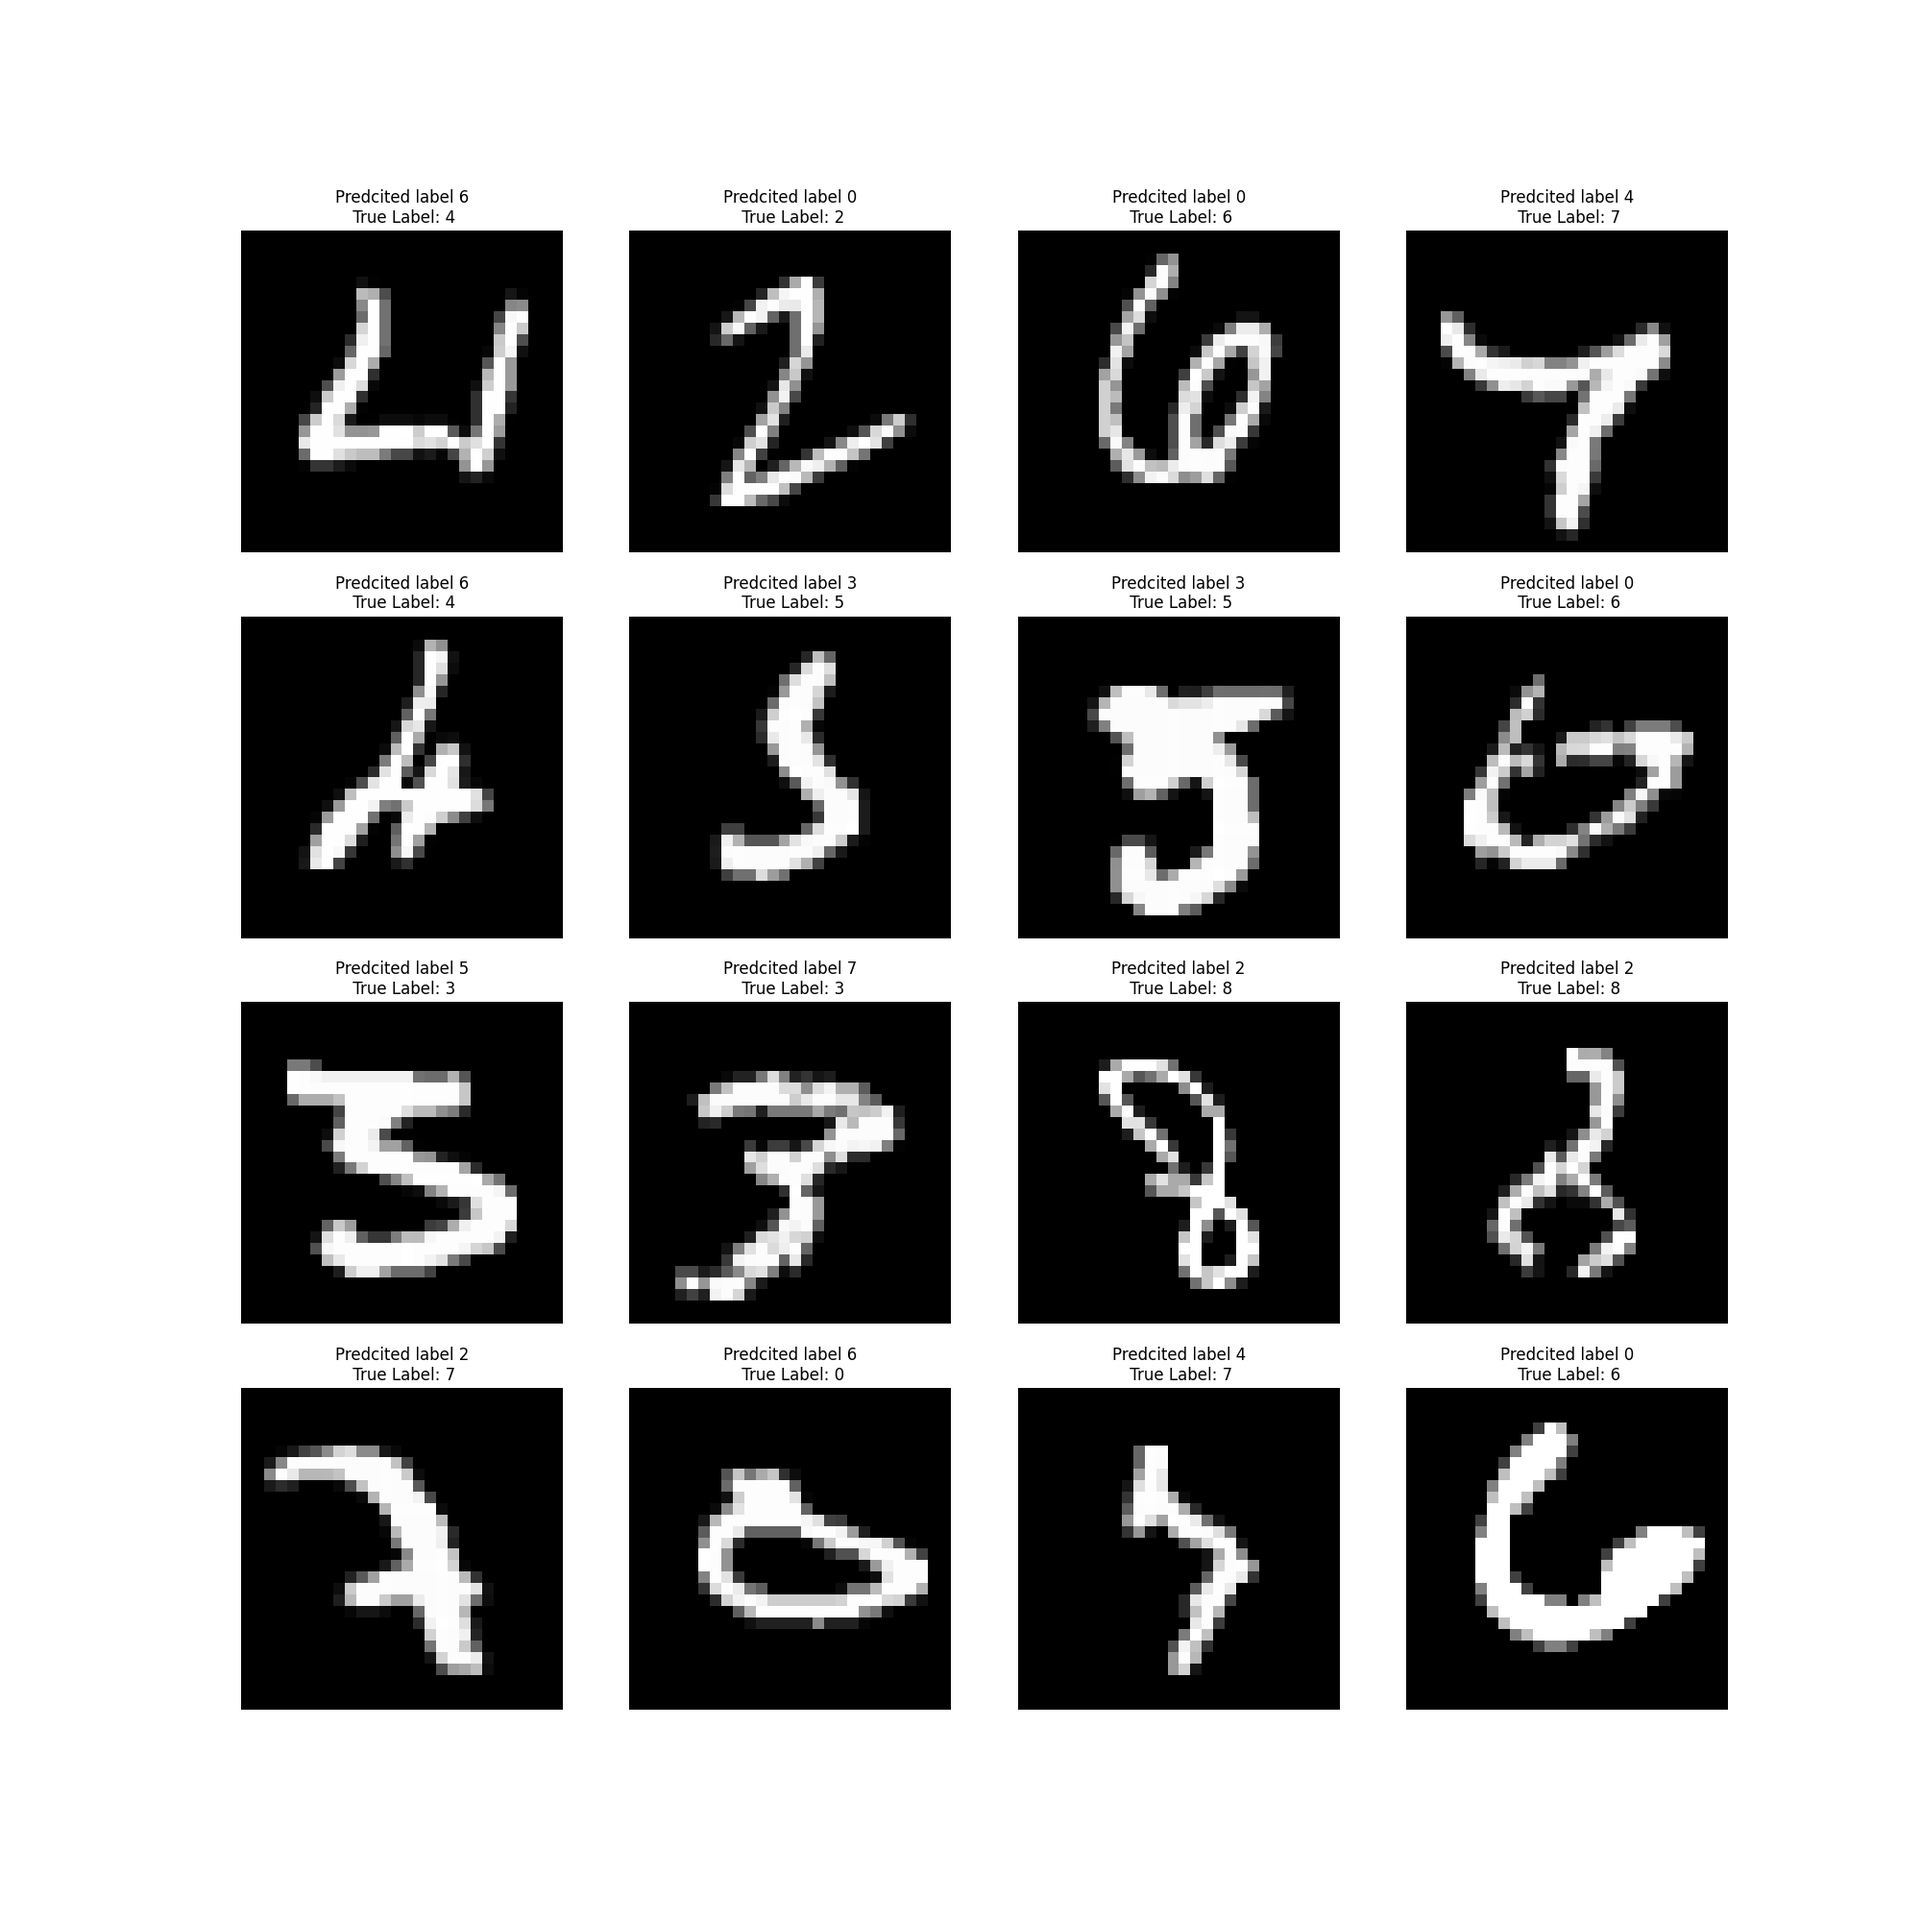
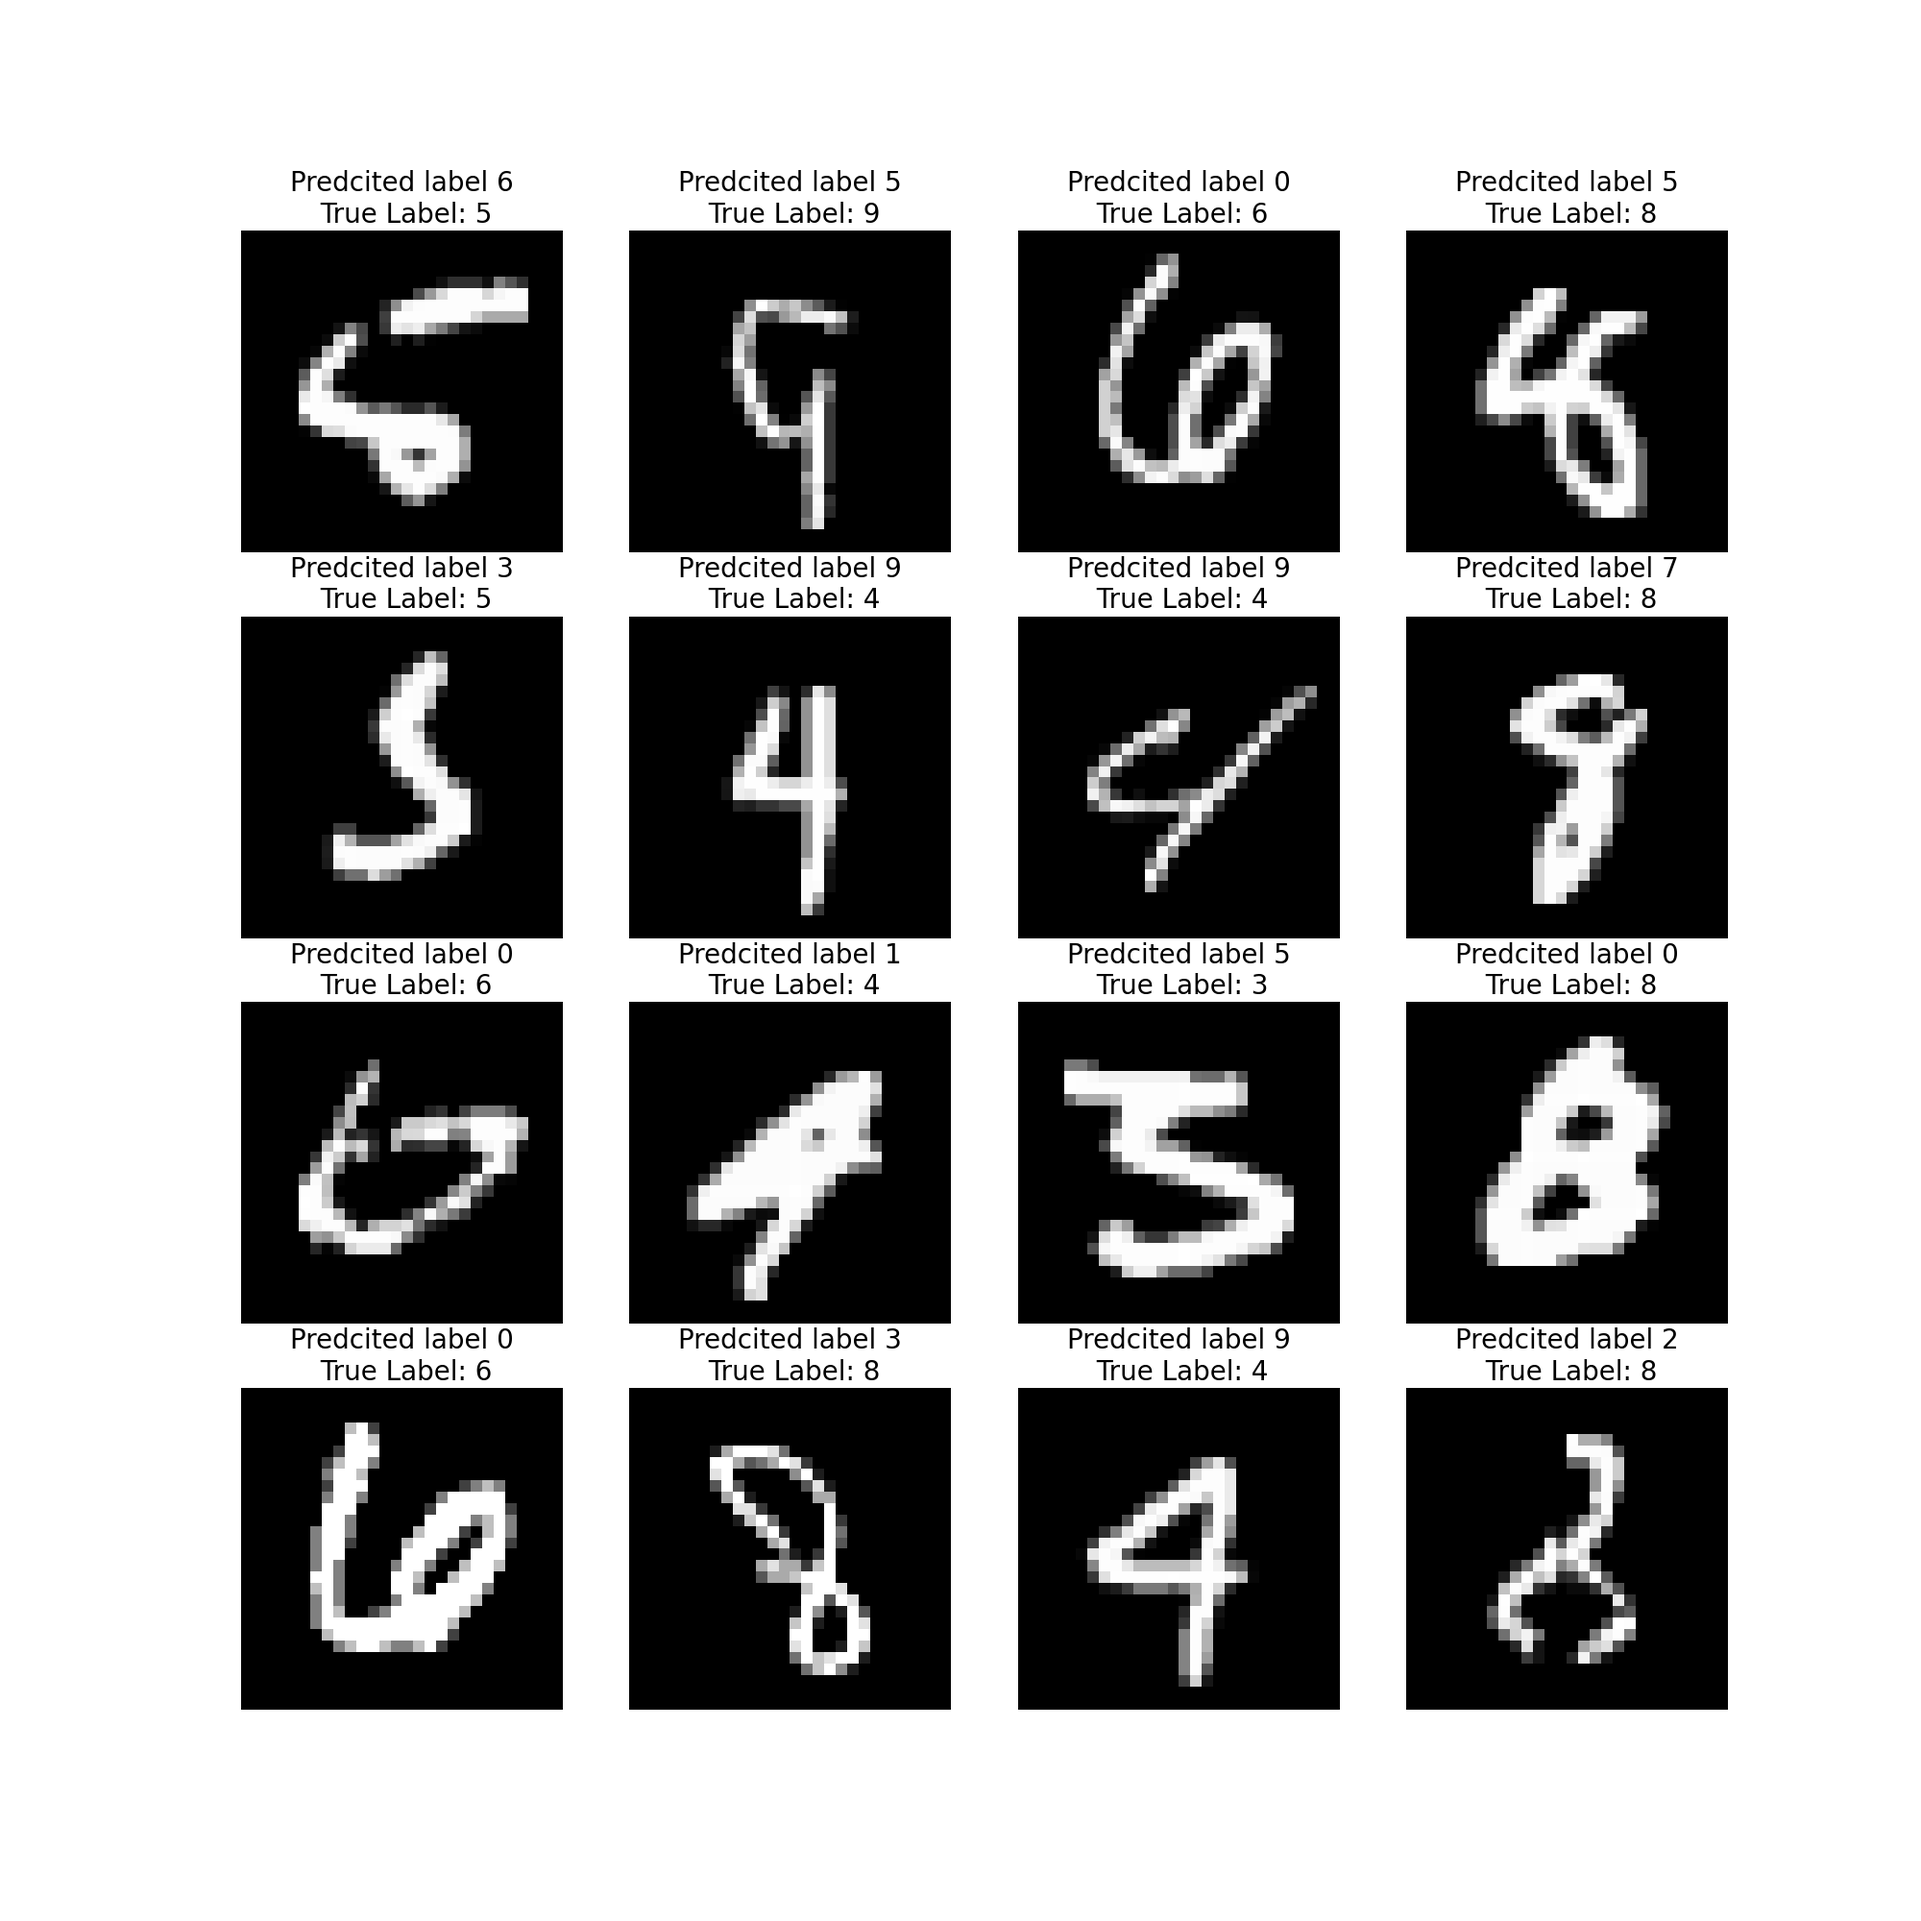
font size changes in plots

diff --git a/utils.py b/utils.py
@@ -203,8 +203,8 @@ def plot_accuracy_report(train_losses, test_losses, train_acc, test_acc):
     # Close the plot
     plt.close()
 
-def show_random_results(test_loader,grid_size,model,device):
-    cols, rows = grid_size[0],grid_size[1]
+def show_random_results(test_loader, grid_size, model, device):
+    cols, rows = grid_size[0], grid_size[1]
     figure = plt.figure(figsize=(20, 20))
     for i in range(1, cols * rows + 1):
         k = np.random.randint(0, len(test_loader.dataset))
@@ -213,7 +213,10 @@ def show_random_results(test_loader,grid_size,model,device):
         pred = model(img.to(device))
 
         figure.add_subplot(rows, cols, i)
-        plt.title(f"Predcited label {pred.argmax().item()}\n True Label: {label}")
+        plt.title(
+            f"Predicted Label: {pred.argmax().item()}\nTrue Label: {label}", 
+            fontsize=20  # Increase this value to make the text size larger
+        )
         plt.axis("off")
         plt.imshow(img.squeeze(), cmap="gray")
 
@@ -242,7 +245,7 @@ def plot_misclassified(model,grid_size,test_loader,device):
         img, label, pred = misclf[i-1]
 
         figure.add_subplot(rows, cols, i)
-        plt.title(f"Predcited label {pred}\n True Label: {label}")
+        plt.title(f"Predcited label {pred}\n True Label: {label}",fontsize=20)
         plt.axis("off")
         plt.imshow(img.squeeze(), cmap="gray")
 
